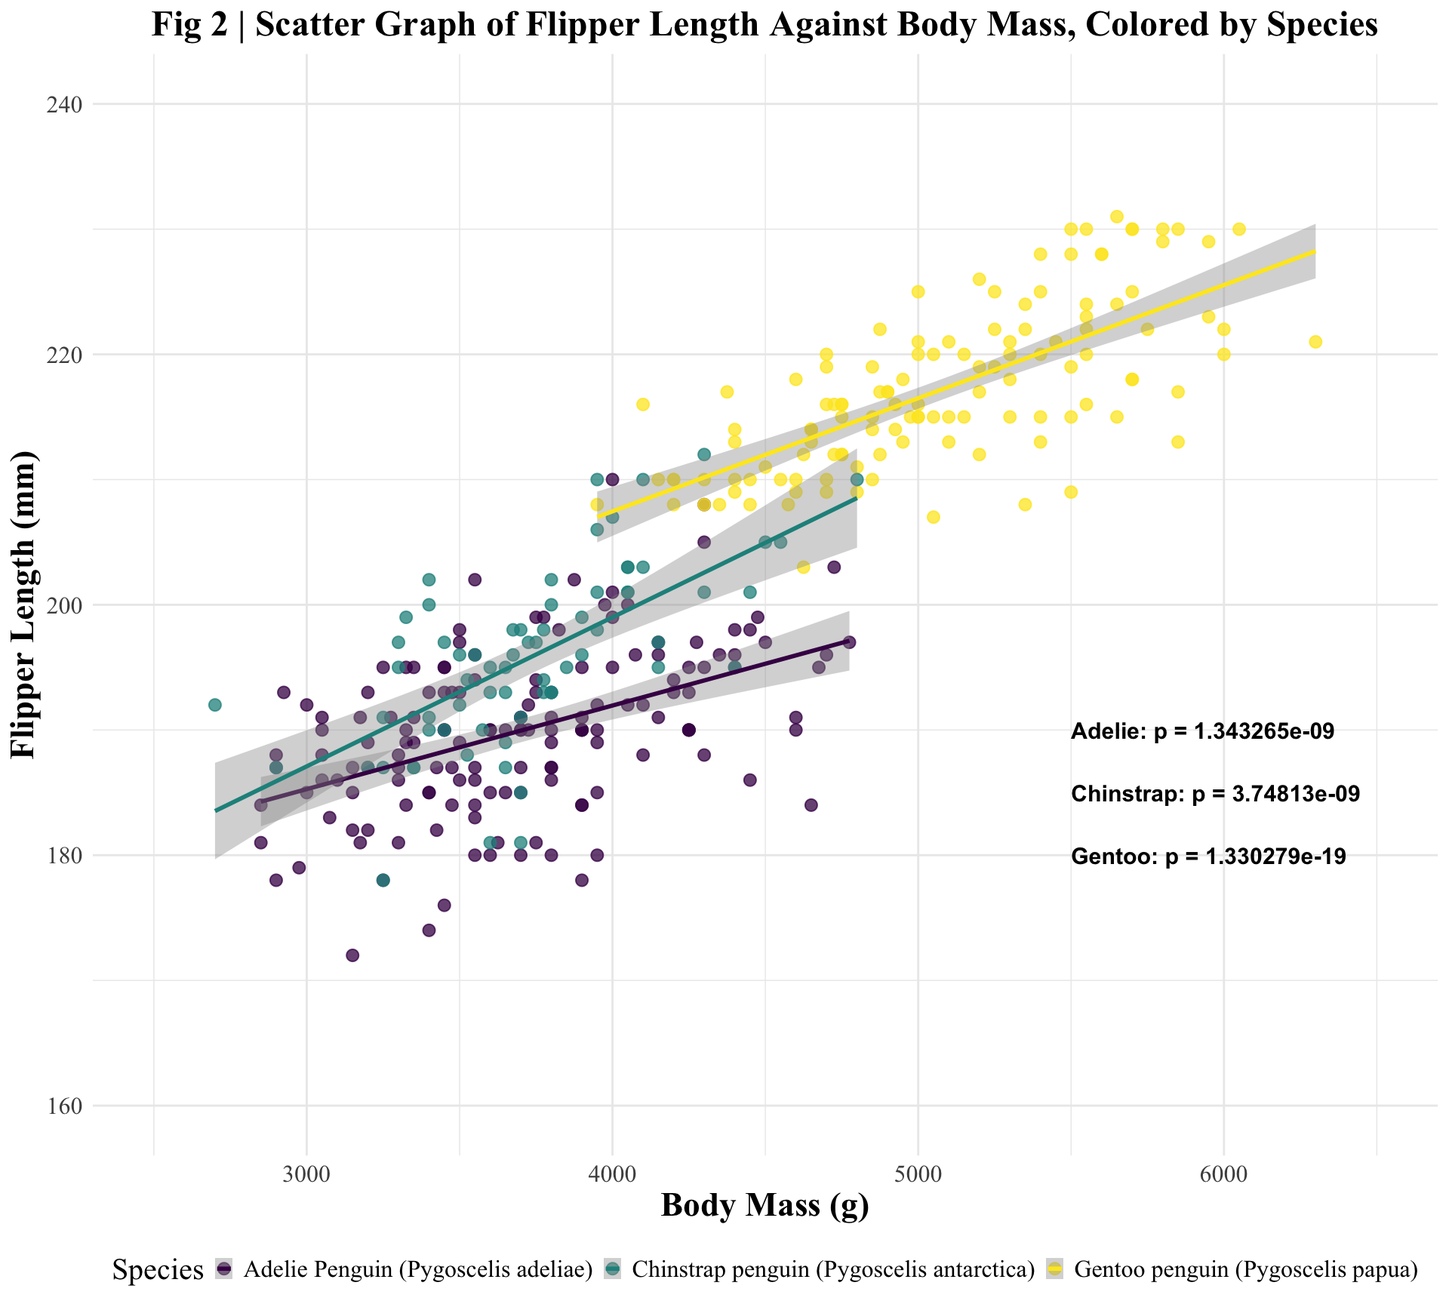
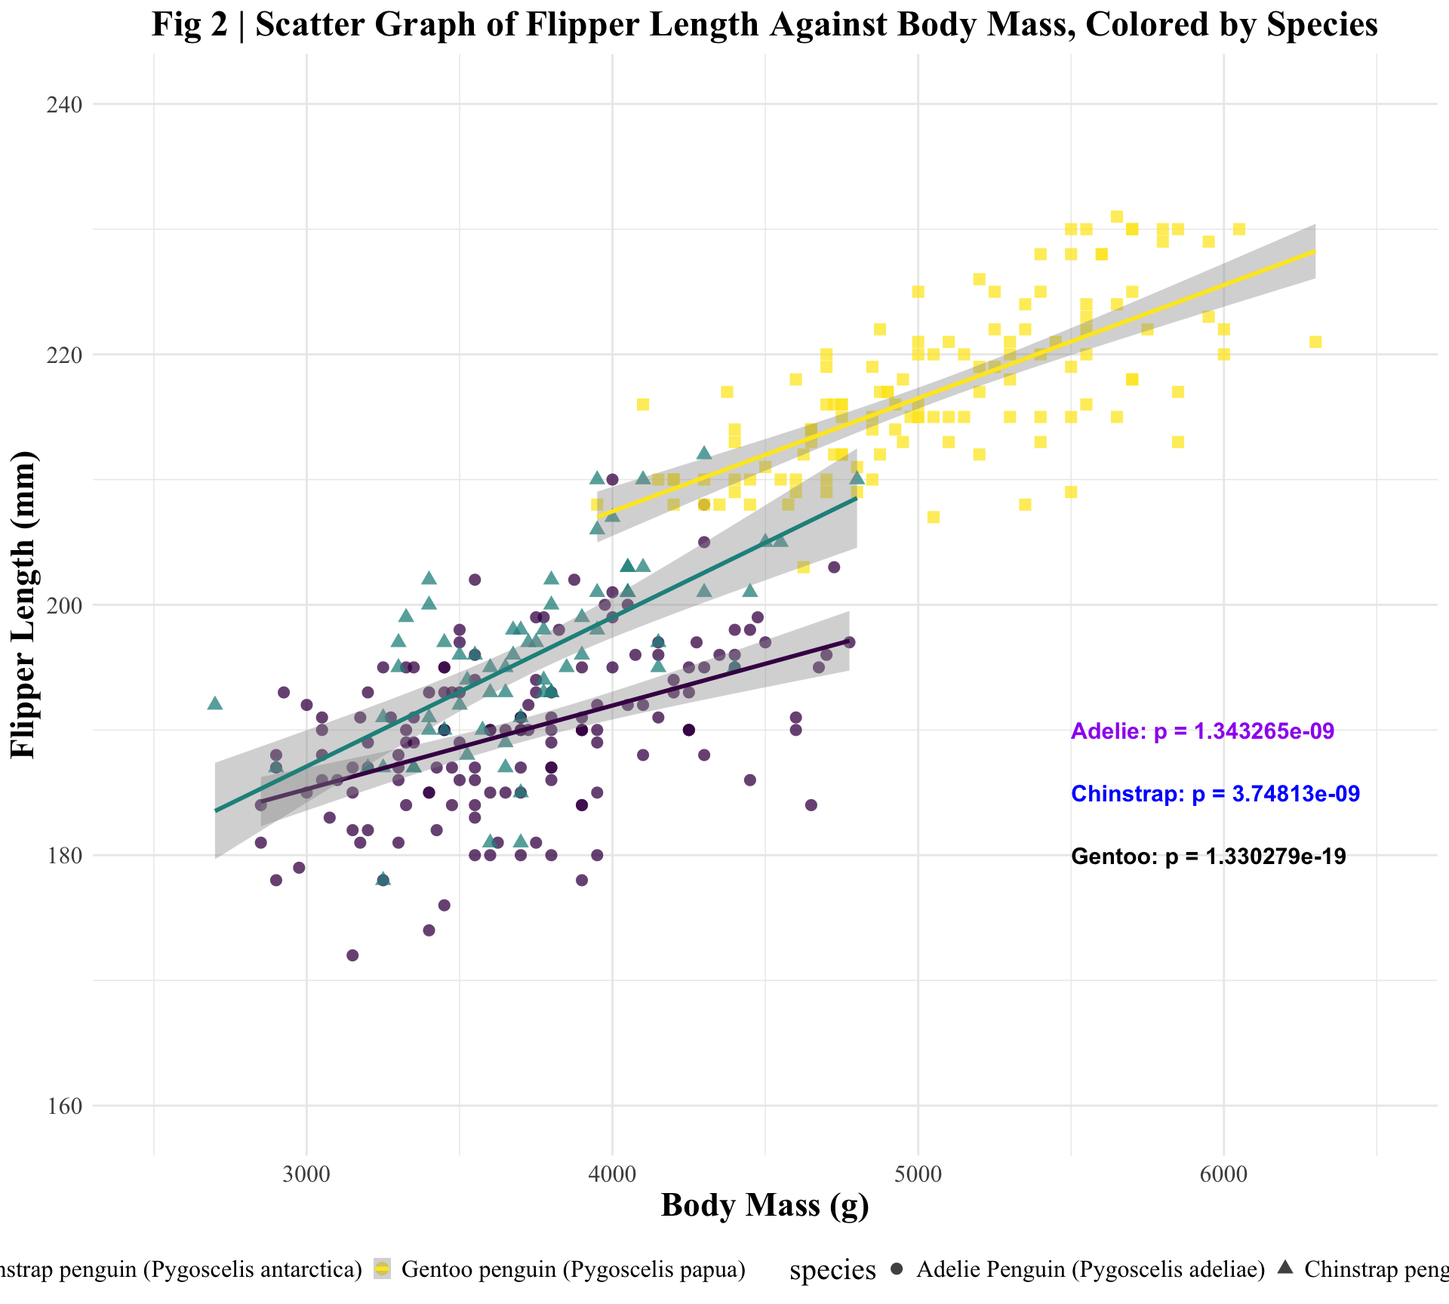
Updating 00:58

diff --git a/Reproducible Figures - Quarto.html b/Reproducible Figures - Quarto.html
@@ -97,6 +97,7 @@ code span.wa { color: #60a0b0; font-weight: bold; font-style: italic; } /* Warni
 <link href="Reproducible Figures - Quarto_files/libs/bootstrap/bootstrap-icons.css" rel="stylesheet">
 <link href="Reproducible Figures - Quarto_files/libs/bootstrap/bootstrap.min.css" rel="stylesheet" id="quarto-bootstrap" data-mode="light">
 
+  <script src="https://cdn.jsdelivr.net/npm/mathjax@3/es5/tex-chtml-full.js" type="text/javascript"></script>
 
 </head>
 
@@ -126,6 +127,7 @@ code span.wa { color: #60a0b0; font-weight: bold; font-style: italic; } /* Warni
 <h2 class="anchored" data-anchor-id="adelie-penguin-walking"><img src="images/Adelie%20Penguin%20Image.jpeg" class="img-fluid" alt="Adelie Penguin Walking"></h2>
 <section id="question-01-data-visualisation-for-science-communication" class="level3">
 <h3 class="anchored" data-anchor-id="question-01-data-visualisation-for-science-communication"><strong>QUESTION 01: Data Visualisation for Science Communication</strong></h3>
+<p>Initially, I will be using the Palmer Penguin dataset to build a misleading graph. This firstly requires appropriate loading and cleaning of the data. My code is as follows:</p>
 <div class="cell">
 <div class="sourceCode cell-code" id="cb1"><pre class="sourceCode r code-with-copy"><code class="sourceCode r"><span id="cb1-1"><a href="#cb1-1" aria-hidden="true" tabindex="-1"></a>renv<span class="sc">::</span><span class="fu">restore</span>() <span class="co">#stores appropriate versions of libraries downloading </span></span></code><button title="Copy to Clipboard" class="code-copy-button"><i class="bi"></i></button></pre></div>
 <div class="cell-output cell-output-stdout">
@@ -167,6 +169,7 @@ code span.wa { color: #60a0b0; font-weight: bold; font-style: italic; } /* Warni
 <span id="cb3-34"><a href="#cb3-34" aria-hidden="true" tabindex="-1"></a><span class="co">#writing a csv with the new, cleaned data:</span></span>
 <span id="cb3-35"><a href="#cb3-35" aria-hidden="true" tabindex="-1"></a><span class="fu">write.csv</span>(penguins_clean, <span class="fu">here</span>(<span class="st">"data"</span>, <span class="st">"penguins_clean.csv"</span>)) </span></code><button title="Copy to Clipboard" class="code-copy-button"><i class="bi"></i></button></pre></div>
 </div>
+<p>My misleading graph is the following:</p>
 <div class="cell">
 <div class="cell-output-display">
 <div class="quarto-figure quarto-figure-center">
@@ -185,9 +188,8 @@ code span.wa { color: #60a0b0; font-weight: bold; font-style: italic; } /* Warni
 <h4 class="anchored" data-anchor-id="introduction">Introduction</h4>
 <p>The Palmer Penguins dataset records observations of foraging Adélie (<em>Pygoscelis adeliae</em>), Chinstrap (<em>Pygoscelis antarcticus</em>) and Gentoo (<em>Pygoscelis papua</em>) penguin species, near the Palmer Station, in the Palmer Archipelago, Antarctica. Recorded observations for each individual notes the specific species, as well as the specific island (of Briscoe, Dream or Torgersen) in the Anvers region; as well as the developmental stage. Each observation is given an ID. Data collected include: clutch completion (either yes or no), the date of egg laying (YYYY-MM-DD), culmen length and depth as well as flipper length (all measured in mm), body mass (measured in grams), and sex (M/F).</p>
 <p>Previous research has investigated […].</p>
-<p>In my pipeline, I will pose my <u>questions</u> and <u>hypotheses</u>, explain the <u>statistical method</u> I have chosen to adopt for my present analysis, explore and discuss my <u>results</u>, and ultimately <u>conclude</u> my analysis with reference to its wider relevance.</p>
-<p>[discuss the pipeline wrt the data]</p>
-<p><strong>My question:</strong> is there a correlation between body mass and flipper length in different penguin species’ (Adélie, Chinstrap and Gentoo)?</p>
+<p>In my pipeline, having loaded and cleaned my data, I will pose my <u>questions</u> and <u>hypotheses</u>, explain the <u>statistical method</u> I have chosen to adopt for my present analysis, explore and discuss my <u>results</u> (using both an exploratory and a results figure, which I will save<u>)</u>, and ultimately <u>conclude</u> my analysis with reference to its wider relevance.</p>
+<p><strong>My question:</strong> is there a correlation between body mass and flipper length in different penguin species’ (here: Adélie, Chinstrap and Gentoo)?</p>
 <p>[find someone who has investigated something similar and explain the concept of allometry - maybe go back to the orig suggestion]</p>
 </section>
 <section id="hypothesis" class="level4">
@@ -198,11 +200,16 @@ code span.wa { color: #60a0b0; font-weight: bold; font-style: italic; } /* Warni
 </section>
 <section id="stats-method" class="level4">
 <h4 class="anchored" data-anchor-id="stats-method">Stats Method</h4>
-<p>In order to test my H0, I aim to conduct a Pearson’s correlation coefficient analysis on two numerical variables included within the Palmer Penguins dataset - body mass (measured in grams), and flipper length (measured in mm).</p>
-<p>[give the equation for Pearson’s using LaTeX]</p>
+<p>In order to test my H<sub>0</sub>, I aim to conduct a Pearson’s correlation coefficient analysis on two numerical variables included within the Palmer Penguins dataset - body mass (measured in grams), and flipper length (measured in mm). [cite a study which shows doing this is good and why; maybe explain what a correlation actually is]</p>
+<p>The equation for Pearson’s correlation coefficient is given as:</p>
+<p><span class="math display">\[r = \Sigma(x_i-\bar x)(y_i-\bar y)/ \sqrt\Sigma(x_i-\bar x)(y_i-\bar y)\]</span>$$$$</p>
+<p>To compare correlations between each species, I bootstrapped the correlation coefficient estimates [cite a source saying why you did this]. In order to make this bootstrapping reproducible, I have set a seed in my code.</p>
+<p>Pearson’s correlation coefficient assumes that data are distributed normally. I have tested this in the <u>Supplementary Materials</u> section.</p>
 </section>
 <section id="results" class="level4">
 <h4 class="anchored" data-anchor-id="results">Results</h4>
+<p>To gain an initial appreciation of the data, but not yet to run any statistical tests, I first created an exploratory figure [cite why this is important].</p>
+<p>Here, I generated a y figure to show the distribution of the raw data for my two variables of interest: body mass (g), and flipper length (mm).</p>
 <div class="cell">
 <div class="sourceCode cell-code" id="cb4"><pre class="sourceCode r code-with-copy"><code class="sourceCode r"><span id="cb4-1"><a href="#cb4-1" aria-hidden="true" tabindex="-1"></a><span class="do">##Firstly, I create a density plot of body masses by species </span></span>
 <span id="cb4-2"><a href="#cb4-2" aria-hidden="true" tabindex="-1"></a></span>
@@ -258,6 +265,10 @@ code span.wa { color: #60a0b0; font-weight: bold; font-style: italic; } /* Warni
 </div>
 </div>
 </div>
+<p>Fig 1a shows body mass (g) on the x-axis, and density [explain] on the y-axis. Here, we can perceive overlapping densities of body masses between the 3 species [explain]. However, a rough hierarchy emerges with regards to increasing body mass: Gentoo (yellow) &gt; Chinstrap (teal) &gt; Adélie (purple).</p>
+<p>Fig 1b recapitulates a similar pattern. Here, we have flipper length (mm) on the x-axis, and density on the y-axis. Despite density overlap, an approximate hierarchy of increasing flipper length of Gentoo &gt; Chinstrap &gt; Adélie also emerges.</p>
+<p>Hence, according to our exploratory Figure, very similar patterns emerge with regard to the density values for the morphological [morphometric?] traits of both body mass and flipper length.</p>
+<p>For reproducibility, it is important that the figures as I have generated them under this current investigation are saved and kept. [cite?] They can be found in the “figures” folder of my Reproducible Figures GitHub repository, linked here […]. I give the code for my figure-saving function, which itself is also saved in the “functions” folder of my Reproducible Figures GitHub repository, below.</p>
 <div class="cell">
 <div class="sourceCode cell-code" id="cb5"><pre class="sourceCode r code-with-copy"><code class="sourceCode r"><span id="cb5-1"><a href="#cb5-1" aria-hidden="true" tabindex="-1"></a><span class="do">## In order to save this figure, I create another function: </span></span>
 <span id="cb5-2"><a href="#cb5-2" aria-hidden="true" tabindex="-1"></a></span>
@@ -291,11 +302,8 @@ code span.wa { color: #60a0b0; font-weight: bold; font-style: italic; } /* Warni
                 2 </code></pre>
 </div>
 </div>
-<p>Firstly, I generated an exploratory figure to show the distribution of the raw data for my two variables of interest: body mass (g), and flipper length (mm). Initially, we are not addressing my hypotheses, but gaining an appreciation for the data [cite].</p>
-<p>Fig 1a shows us overlapping densities of body masses between the 3 species [explain]. However, a rough hierarchy emerges with regards to increasing body mass: Gentoo &gt; Chinstrap &gt; Adélie.</p>
-<p>Fig 1b recapitulates a similar pattern. Despite density overlap, an approximate hierarchy of increasing flipper length of Gentoo &gt; Chinstrap &gt; Adélie also emerges.</p>
-<p>According to our exploratory Figure, very similar patterns emerge with regard to the density values for the morphological [morphometric?] traits of both body mass and flipper length.</p>
-<p><em>Are these morphology characteristics correlated?</em></p>
+<p><em>Are the morphological traits of body mass and flipper length characteristics correlated?</em></p>
+<p>To test this, I conduct a Pearson’s correlation coefficient analysis.</p>
 <div class="cell">
 <div class="sourceCode cell-code" id="cb9"><pre class="sourceCode r code-with-copy"><code class="sourceCode r"><span id="cb9-1"><a href="#cb9-1" aria-hidden="true" tabindex="-1"></a><span class="do">## Firstly, I extract the correlation coefficient and associated p-values from the cleaned penguin data, subset by species</span></span>
 <span id="cb9-2"><a href="#cb9-2" aria-hidden="true" tabindex="-1"></a></span>
@@ -345,10 +353,12 @@ code span.wa { color: #60a0b0; font-weight: bold; font-style: italic; } /* Warni
 <p>Correlation Test</p>
 </div>
 </div>
+<p>Here, our table output shows a positive correlation coefficient for each of the 3 species, between body mass and flipper length. Moreover, each of these positive correlations is highly significant under the Pearson’s correlation coefficient analysis. This is shown by each of their associated p values being &lt;0.05, the conventionally utilised alpha significance level [cite]].</p>
+<p>Correlations are more easily appreciated under visualisation. To facilitate this therefore, I built a scatter plot results figure, displaying the correlation between body mass (g) and flipper length (mm), for each species.</p>
 <div class="cell">
 <div class="sourceCode cell-code" id="cb10"><pre class="sourceCode r code-with-copy"><code class="sourceCode r"><span id="cb10-1"><a href="#cb10-1" aria-hidden="true" tabindex="-1"></a><span class="do">## To create my Results Figure, I will generate a triplet scatterplot of flipper length against body mass by species, show the linear correlation with a regression line and standard error, and print the significant p-values atop this. </span></span>
 <span id="cb10-2"><a href="#cb10-2" aria-hidden="true" tabindex="-1"></a></span>
-<span id="cb10-3"><a href="#cb10-3" aria-hidden="true" tabindex="-1"></a>results_figure <span class="ot">&lt;-</span> <span class="fu">ggplot</span>(penguins_clean, <span class="fu">aes</span>(<span class="at">x =</span> body_mass_g, <span class="at">y =</span> flipper_length_mm, <span class="at">color =</span> species)) <span class="sc">+</span></span>
+<span id="cb10-3"><a href="#cb10-3" aria-hidden="true" tabindex="-1"></a>results_figure <span class="ot">&lt;-</span> <span class="fu">ggplot</span>(penguins_clean, <span class="fu">aes</span>(<span class="at">x =</span> body_mass_g, <span class="at">y =</span> flipper_length_mm, <span class="at">color =</span> species, <span class="at">shape =</span> species)) <span class="sc">+</span></span>
 <span id="cb10-4"><a href="#cb10-4" aria-hidden="true" tabindex="-1"></a>  <span class="fu">geom_point</span>(<span class="at">size =</span> <span class="fl">2.5</span>, <span class="at">alpha =</span> <span class="fl">0.75</span>) <span class="sc">+</span></span>
 <span id="cb10-5"><a href="#cb10-5" aria-hidden="true" tabindex="-1"></a>  <span class="fu">geom_smooth</span>(<span class="at">method =</span> <span class="st">"lm"</span>, <span class="at">se =</span> <span class="cn">TRUE</span>) <span class="sc">+</span>  <span class="co"># Removed the `fill` aesthetic</span></span>
 <span id="cb10-6"><a href="#cb10-6" aria-hidden="true" tabindex="-1"></a>  <span class="fu">scale_color_viridis_d</span>() <span class="sc">+</span></span>
@@ -373,10 +383,10 @@ code span.wa { color: #60a0b0; font-weight: bold; font-style: italic; } /* Warni
 <span id="cb10-25"><a href="#cb10-25" aria-hidden="true" tabindex="-1"></a>  ) <span class="sc">+</span></span>
 <span id="cb10-26"><a href="#cb10-26" aria-hidden="true" tabindex="-1"></a>  <span class="fu">annotate</span>(<span class="st">"text"</span>, <span class="at">x =</span> <span class="dv">5500</span>, <span class="at">y =</span> <span class="dv">190</span>, </span>
 <span id="cb10-27"><a href="#cb10-27" aria-hidden="true" tabindex="-1"></a>           <span class="at">label =</span> <span class="fu">paste</span>(<span class="st">"Adelie: p ="</span>, <span class="fu">format</span>(correlation_data<span class="sc">$</span>p_value[<span class="dv">1</span>], <span class="at">scientific =</span> <span class="cn">TRUE</span>)),</span>
-<span id="cb10-28"><a href="#cb10-28" aria-hidden="true" tabindex="-1"></a>           <span class="at">size =</span> <span class="dv">4</span>, <span class="at">hjust =</span> <span class="dv">0</span>, <span class="at">fontface =</span> <span class="st">"bold"</span>, <span class="at">colour =</span> <span class="st">"black"</span>) <span class="sc">+</span></span>
+<span id="cb10-28"><a href="#cb10-28" aria-hidden="true" tabindex="-1"></a>           <span class="at">size =</span> <span class="dv">4</span>, <span class="at">hjust =</span> <span class="dv">0</span>, <span class="at">fontface =</span> <span class="st">"bold"</span>, <span class="at">colour =</span> <span class="st">"purple"</span>) <span class="sc">+</span></span>
 <span id="cb10-29"><a href="#cb10-29" aria-hidden="true" tabindex="-1"></a>  <span class="fu">annotate</span>(<span class="st">"text"</span>, <span class="at">x =</span> <span class="dv">5500</span>, <span class="at">y =</span> <span class="dv">185</span>, </span>
 <span id="cb10-30"><a href="#cb10-30" aria-hidden="true" tabindex="-1"></a>           <span class="at">label =</span> <span class="fu">paste</span>(<span class="st">"Chinstrap: p ="</span>, <span class="fu">format</span>(correlation_data<span class="sc">$</span>p_value[<span class="dv">2</span>], <span class="at">scientific =</span> <span class="cn">TRUE</span>)),</span>
-<span id="cb10-31"><a href="#cb10-31" aria-hidden="true" tabindex="-1"></a>           <span class="at">size =</span> <span class="dv">4</span>, <span class="at">hjust =</span> <span class="dv">0</span>, <span class="at">fontface =</span> <span class="st">"bold"</span>, <span class="at">colour =</span> <span class="st">"black"</span>) <span class="sc">+</span></span>
+<span id="cb10-31"><a href="#cb10-31" aria-hidden="true" tabindex="-1"></a>           <span class="at">size =</span> <span class="dv">4</span>, <span class="at">hjust =</span> <span class="dv">0</span>, <span class="at">fontface =</span> <span class="st">"bold"</span>, <span class="at">colour =</span> <span class="st">"blue"</span>) <span class="sc">+</span></span>
 <span id="cb10-32"><a href="#cb10-32" aria-hidden="true" tabindex="-1"></a>  <span class="fu">annotate</span>(<span class="st">"text"</span>, <span class="at">x =</span> <span class="dv">5500</span>, <span class="at">y =</span> <span class="dv">180</span>, </span>
 <span id="cb10-33"><a href="#cb10-33" aria-hidden="true" tabindex="-1"></a>           <span class="at">label =</span> <span class="fu">paste</span>(<span class="st">"Gentoo: p ="</span>, <span class="fu">format</span>(correlation_data<span class="sc">$</span>p_value[<span class="dv">3</span>], <span class="at">scientific =</span> <span class="cn">TRUE</span>)),</span>
 <span id="cb10-34"><a href="#cb10-34" aria-hidden="true" tabindex="-1"></a>           <span class="at">size =</span> <span class="dv">4</span>, <span class="at">hjust =</span> <span class="dv">0</span>, <span class="at">fontface =</span> <span class="st">"bold"</span>, <span class="at">colour =</span> <span class="st">"black"</span>)</span>
@@ -392,6 +402,14 @@ code span.wa { color: #60a0b0; font-weight: bold; font-style: italic; } /* Warni
 </div>
 </div>
 </div>
+<p>Figure 2 is a scatter plot which shows body mass (g) on the x-axis, and flipper length (mm) on the y-axis. [cite something which says why using a scatter plot in this instance is useful].</p>
+<p>Each of the species of penguin demonstrates a positive correlation between these two variables, which can be assessed visually, by use of the species-specific regression lines. [explain why you used a regression line in this instance].</p>
+<p>Standard errors surround these regression lines in shaded grey, in order to […].</p>
+<p>Notably, a Pearson’s correlation coefficient also assumes an approximately linear relationship between variables [cite], which can also be verified using this scatter plot.</p>
+<p>The significant p-values for each species are also annotated onto the plot, for ease of visual appreciation. Notably, the Gentoo p-value must be displayed in black as opposed to yellow, for readability.</p>
+<p>Clearly, this results plot exemplifies the positive correlation between body mass and flipper length for all 3 of the penguin species.</p>
+<p>[link back to hypotheses].</p>
+<p>Once again, it is important for maximum reproducibility that there is a saved copy of my generated Figure 2. I save it to the “figures” folder of my GitHub repository using the following code:</p>
 <div class="cell">
 <div class="sourceCode cell-code" id="cb11"><pre class="sourceCode r code-with-copy"><code class="sourceCode r"><span id="cb11-1"><a href="#cb11-1" aria-hidden="true" tabindex="-1"></a><span class="do">## I reuse the previously made function to save the results figure: </span></span>
 <span id="cb11-2"><a href="#cb11-2" aria-hidden="true" tabindex="-1"></a></span>
@@ -403,13 +421,9 @@ code span.wa { color: #60a0b0; font-weight: bold; font-style: italic; } /* Warni
                 2 </code></pre>
 </div>
 </div>
-<p>Fig 2 is a scatter plot, which shows a multi-panel figure of 3 different plots: one for each Species. It depicts the relationship between Body Mass (g), given on the x-axis in the 3 separate plots, and Flipper Length (mm), given on the general y-axis.</p>
-<p>The leftmost plot shows the relationship between Body Mass (g) and Flipper Length (mm) for Adélie penguins, shown in purple. Here we see a highly significant positive correlation, which can be visually assessed. Annotated is the exact significance value returned from the Pearson’s correlation coefficient test: p = 1.343 x10^9.</p>
-<p>The central plot shows the relationship between Body Mass (g) and Flipper Length (mm) for Chinstrap penguins, shown in teal. Once again we see a highly significant positive correlation, which can be visually assessed. It can also be perceived that this correlation may be slightly greater than that of the Adélie penguins, by its slightly steeper incline. Annotated is the exact significance value returned from the Pearson’s correlation coefficient test: p = 3.748 x10^9. This lower p value further suggests that the correlation may be stronger in the case of the Chinstrap penguin, when compared to the Adélie penguin.</p>
-<p>Finally, the rightmost plot shows the relationship between Body Mass (g) and Flipper Length (mm) for Gentoo penguins, shown in yellow. We see a final highly significant positive correlation, which can too be visually assessed. It can also be perceived that this correlation may be slightly greater than that of the Adélie penguins, by its slightly steeper incline. Annotated is the exact significance value returned from the Pearson’s correlation coefficient test: p = 3.748 x10^9. This lower p value further suggests that the correlation may be stronger in the case of the Chinstrap penguin, when compared to the Adélie penguin.</p>
-<p>[cite something which says why using a scatter plot in this instance is useful].</p>
-<p>[use confidence intervals but clearly explain what they show]</p>
-<p>[relate plots to statistical tests, and to original hypotheses]</p>
+<p>It is clear that there exist positive correlations between body mass (g) and flipper length (mm) for all 3 penguin species. [maybe mention how the p value for Gentoo is order of magntidue different].</p>
+<p><em>Do these correlations significantly vary between the species?</em></p>
+<p>in order to address this question, it is best practice to bootstrap our Pearson’s correlation coefficient estimates [cite].</p>
 <div class="cell">
 <div class="sourceCode cell-code" id="cb13"><pre class="sourceCode r code-with-copy"><code class="sourceCode r"><span id="cb13-1"><a href="#cb13-1" aria-hidden="true" tabindex="-1"></a><span class="do">## For my boostrapped correlation test, I first define a function, which is saved in the functions folder, for ease of access. </span></span>
 <span id="cb13-2"><a href="#cb13-2" aria-hidden="true" tabindex="-1"></a></span>
@@ -473,9 +487,12 @@ code span.wa { color: #60a0b0; font-weight: bold; font-style: italic; } /* Warni
 <p>Bootstrapped Correlation Test</p>
 </div>
 </div>
+<p>The results of this bootstrapping of our Pearson’s correlation coefficient estimates shows that all 95% confidence intervals overlap [why is this important?].</p>
+<p>As such, we can infer that there is no significant difference between the strength of the positive correlation between body mass (g), and flipper length (mm), between these 3 different species of penguin.</p>
 </section>
 <section id="discussion" class="level4">
 <h4 class="anchored" data-anchor-id="discussion">Discussion</h4>
+<p>[write a small para about the biological significance of each of the data in turn].</p>
 </section>
 <section id="conclusion" class="level4">
 <h4 class="anchored" data-anchor-id="conclusion">Conclusion</h4>
